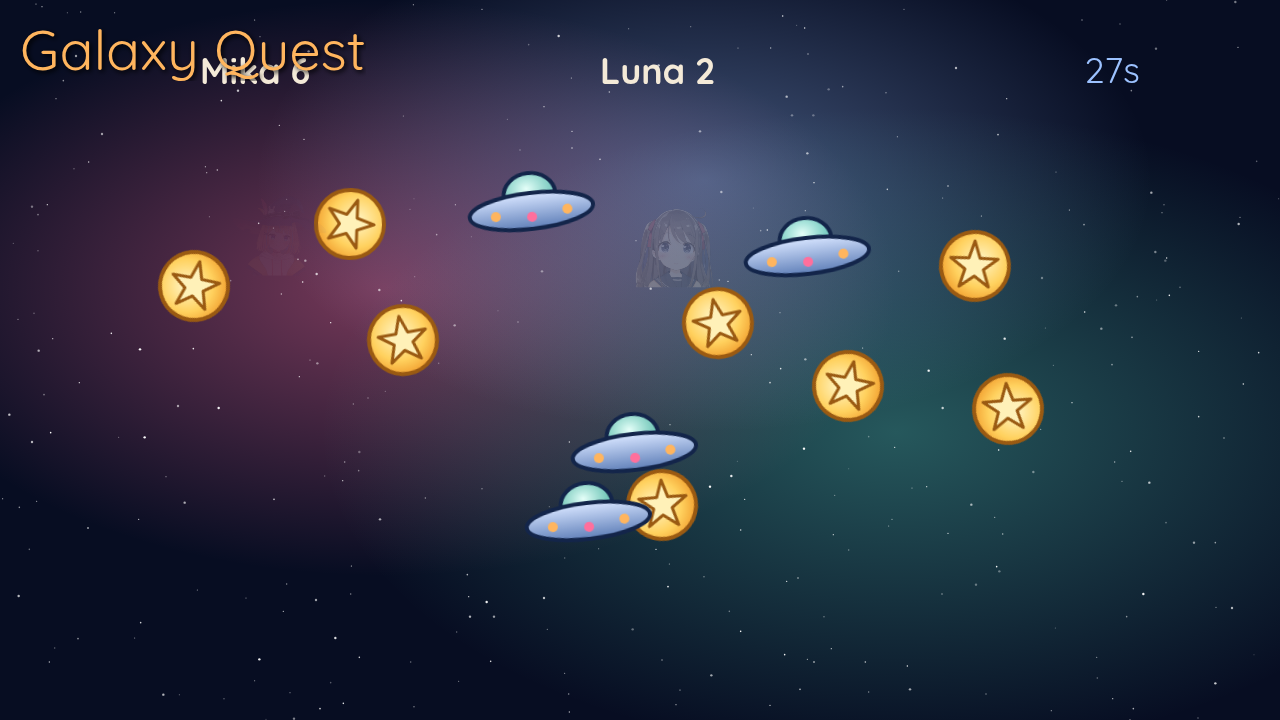
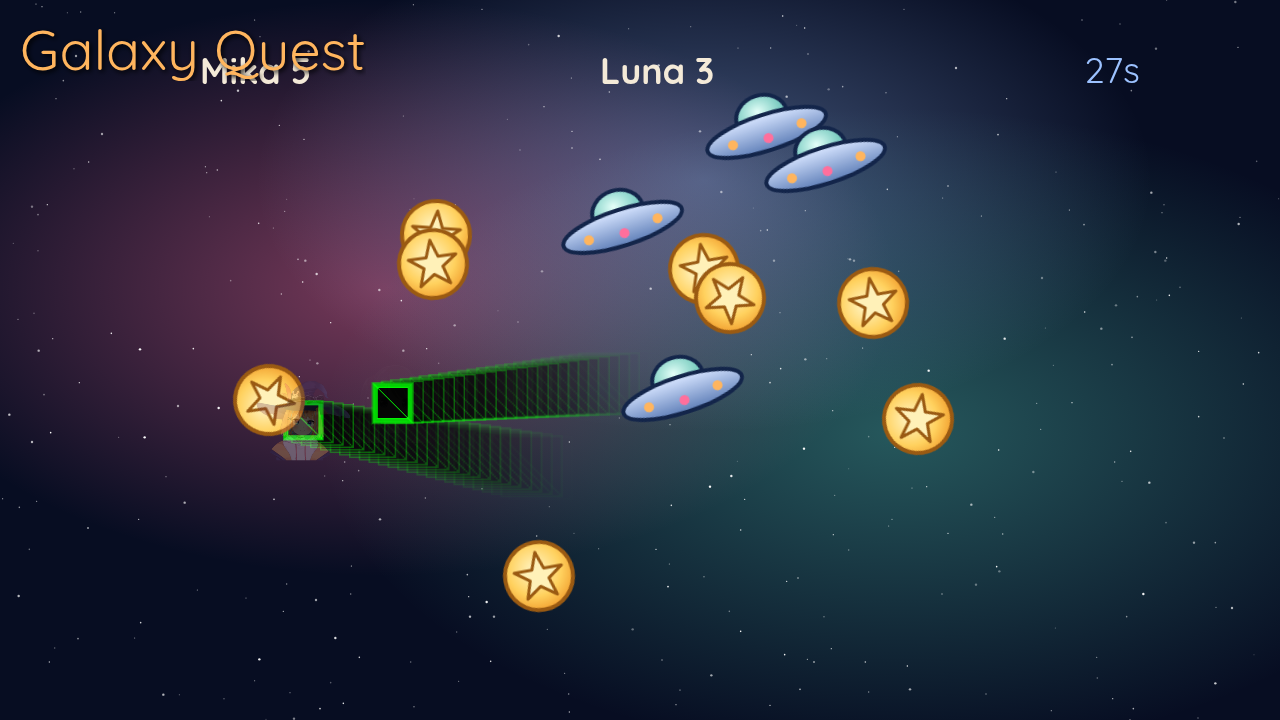
Publish game-look-better-ad89 (requested by @SelwynBuilds-j1s)

diff --git a/games/game-look-better-ad89/index.html b/games/game-look-better-ad89/index.html
@@ -166,10 +166,22 @@ class Play extends Phaser.Scene {
     }
 
     this.updateLabels();
-    
+
     // Add shimmering effect on players
     this.players.forEach(p => {
       p.sprite.setAlpha(0.5 + 0.5 * Math.sin(Date.now() * 0.005 + p.sprite.x));
+      this.addParticles(p.sprite.x, p.sprite.y);
+    });
+  }
+
+  addParticles(x, y) {
+    const particle = this.add.image(x, y, "star").setAlpha(0.6);
+    this.tweens.add({
+      targets: particle,
+      alpha: 0,
+      scale: 2,
+      duration: 1000,
+      onComplete: () => particle.destroy()
     });
   }
 }
